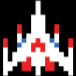
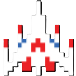
Add files via upload

diff --git a/GalacaGame.cpp b/GalacaGame.cpp
@@ -1,7 +1,6 @@
 #include <iostream>
-    
-
 #include "raylib.h"
+#include "Bullet.h"
 
 //------------------------------------------------------------------------------------
 // Program main entry point
@@ -10,22 +9,69 @@ int main(void)
 {
     // Initialization
     //--------------------------------------------------------------------------------------
-    const int screenWidth = 800;
-    const int screenHeight = 450;
+    const int screenWidth = 600;
+    const int screenHeight = 900;
+    
+    int userpositionx = 235;
+    int userpositiony = 800;
+    
+    int backgroundy = 0;
+    
+    int speed = 5;
+    
 
-    InitWindow(screenWidth, screenHeight, "raylib [core] example - basic window");
+    InitWindow(screenWidth, screenHeight, "Galaca Game - Singplayer");
+    
+    //Load in all textures 
+    Texture2D usersprite = LoadTexture("user.png");
+    Texture2D background = LoadTexture("background.png");
+    
+    
 
     SetTargetFPS(60);               // Set our game to run at 60 frames-per-second
     //--------------------------------------------------------------------------------------
 
+
+    
+
     // Main game loop
-    while (!WindowShouldClose())    // Detect window close button or ESC key
-    {
-        
-        
-        
+    
         // Update
         //----------------------------------------------------------------------------------
+        // TODO: Update your variables here
+        //----------------------------------------------------------------------------------
+    while (!WindowShouldClose())    // Detect window close button or ESC key
+    {
+        //Clears background first 
+        ClearBackground(BLACK);
+        
+        //MOVEMENT
+        if (IsKeyDown(KEY_A)) {// This code runs only once each frame, when a button is pressed 
+            if (userpositionx != 0){
+            userpositionx-= speed;
+            }
+            
+        } else if (IsKeyDown(KEY_D)){
+            if (userpositionx != 530){
+            userpositionx+= speed;
+            }
+        }
+        //SHOOTING
+        if (IsMouseButtonPressed(0)){
+            //When the mouse is pressed, create a new class with the bullet x and y being (35,17) from the users
+            // then update the y axis by increasing by 8 everytime after
+            
+            
+            //Bullet bullet1(userpositionx + 35,userpositiony-17);
+            
+        }
+        
+        
+        //-----------------------------------------
+        
+        backgroundy--;
+        
+        
         // TODO: Update your variables here
         //----------------------------------------------------------------------------------
 
@@ -33,9 +79,15 @@ int main(void)
         //----------------------------------------------------------------------------------
         BeginDrawing();
 
-            ClearBackground(BLACK);
+            DrawTexture(background,0,backgroundy,WHITE);
 
-            DrawText("Congrats! You created your first window!", 190, 200, 20, WHITE);
+            DrawText("Galaca!", 100, 200, 40, WHITE);
+            
+            DrawTexture(usersprite, userpositionx, userpositiony, WHITE);//Draws users position
+            
+            
+            
+            
 
         EndDrawing();
         //----------------------------------------------------------------------------------
@@ -43,6 +95,7 @@ int main(void)
 
     // De-Initialization
     //--------------------------------------------------------------------------------------
+    UnloadTexture(usersprite);
     CloseWindow();        // Close window and OpenGL context
     //--------------------------------------------------------------------------------------
 

diff --git a/Bullet.h b/Bullet.h
@@ -1,0 +1,29 @@
+#ifndef BULLET_H
+#define BULLET_H
+
+
+class Bullet {
+
+    private:
+        int bulletx;
+        int bullety;
+        Texture2D bulletimage;
+        
+
+    public:
+        // Constructor
+        Bullet(int x, int y);
+    
+        
+    
+        // Member functions
+        int getx() const;
+        int gety() const;
+        
+        Texture2D getimage() const;
+        
+        void sety(int y);
+        
+};
+
+#endif

diff --git a/Bullet.cpp b/Bullet.cpp
@@ -1,0 +1,24 @@
+#include "Bullet.h"
+
+Bullet::Bullet(int x, int y){
+    bulletx = x; //The first two numbers set its x and y
+    bullety = y;
+    bulletimage = LoadTexture("bullet.png");
+}
+    
+
+void Bullet::setY(int y) {
+    bullety = y;
+}
+
+int Bullet::getx() const {
+    return bulletx; 
+}
+
+int Bullet::gety() const {
+    return bullety; 
+}
+
+Texture2D Bullet::getimage() const {
+    return bulletimage;
+}
